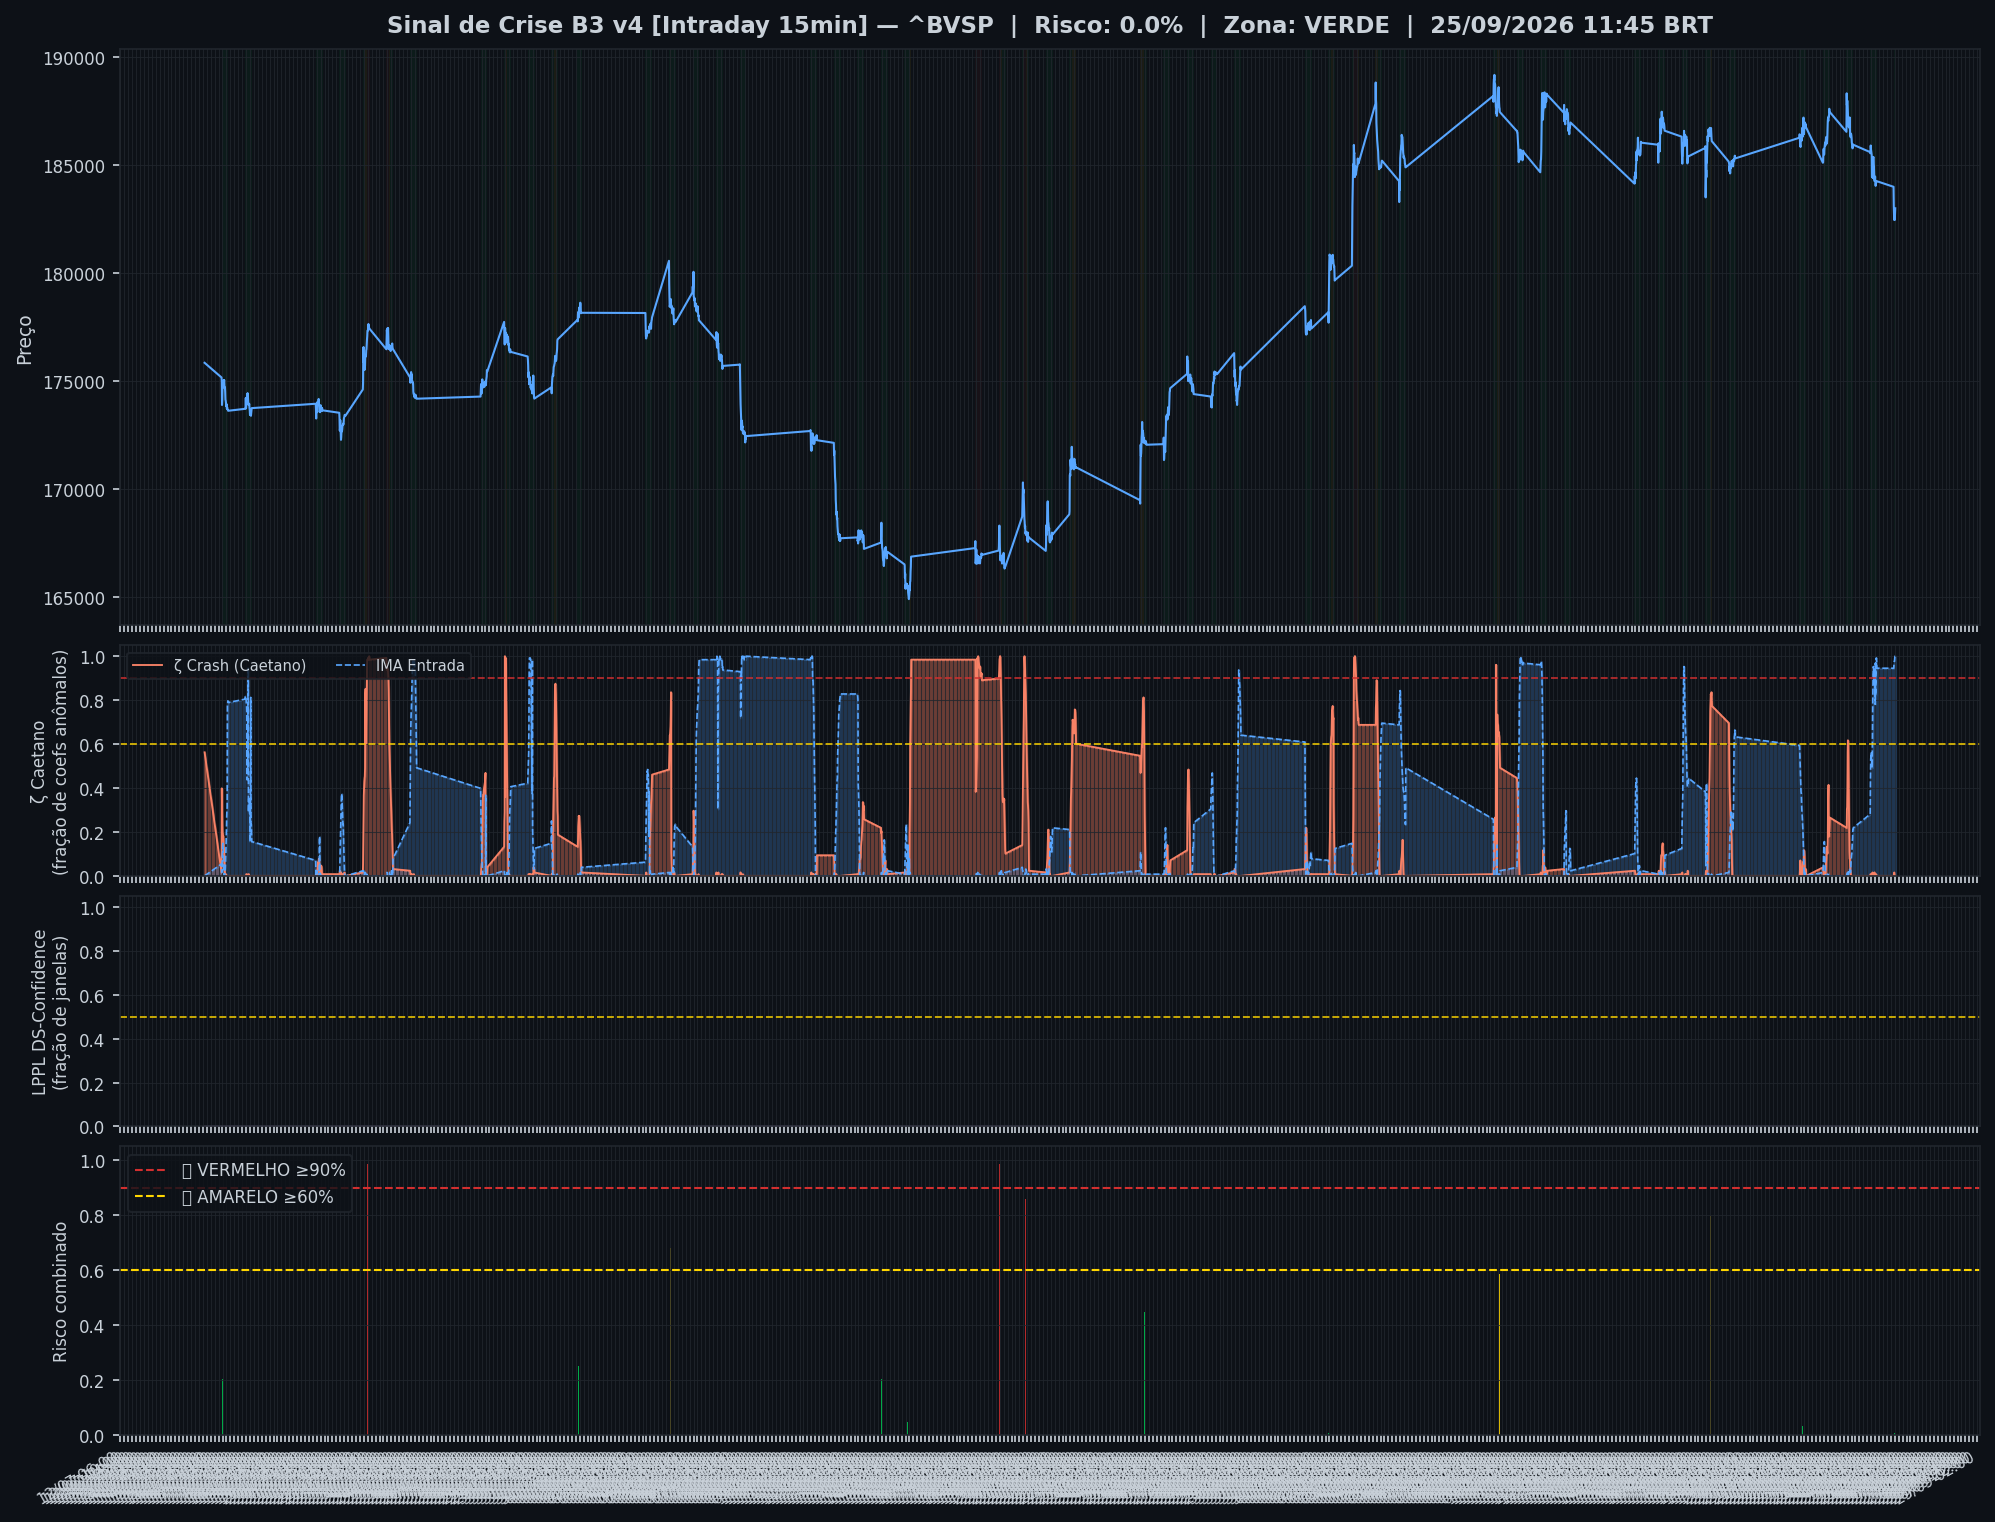
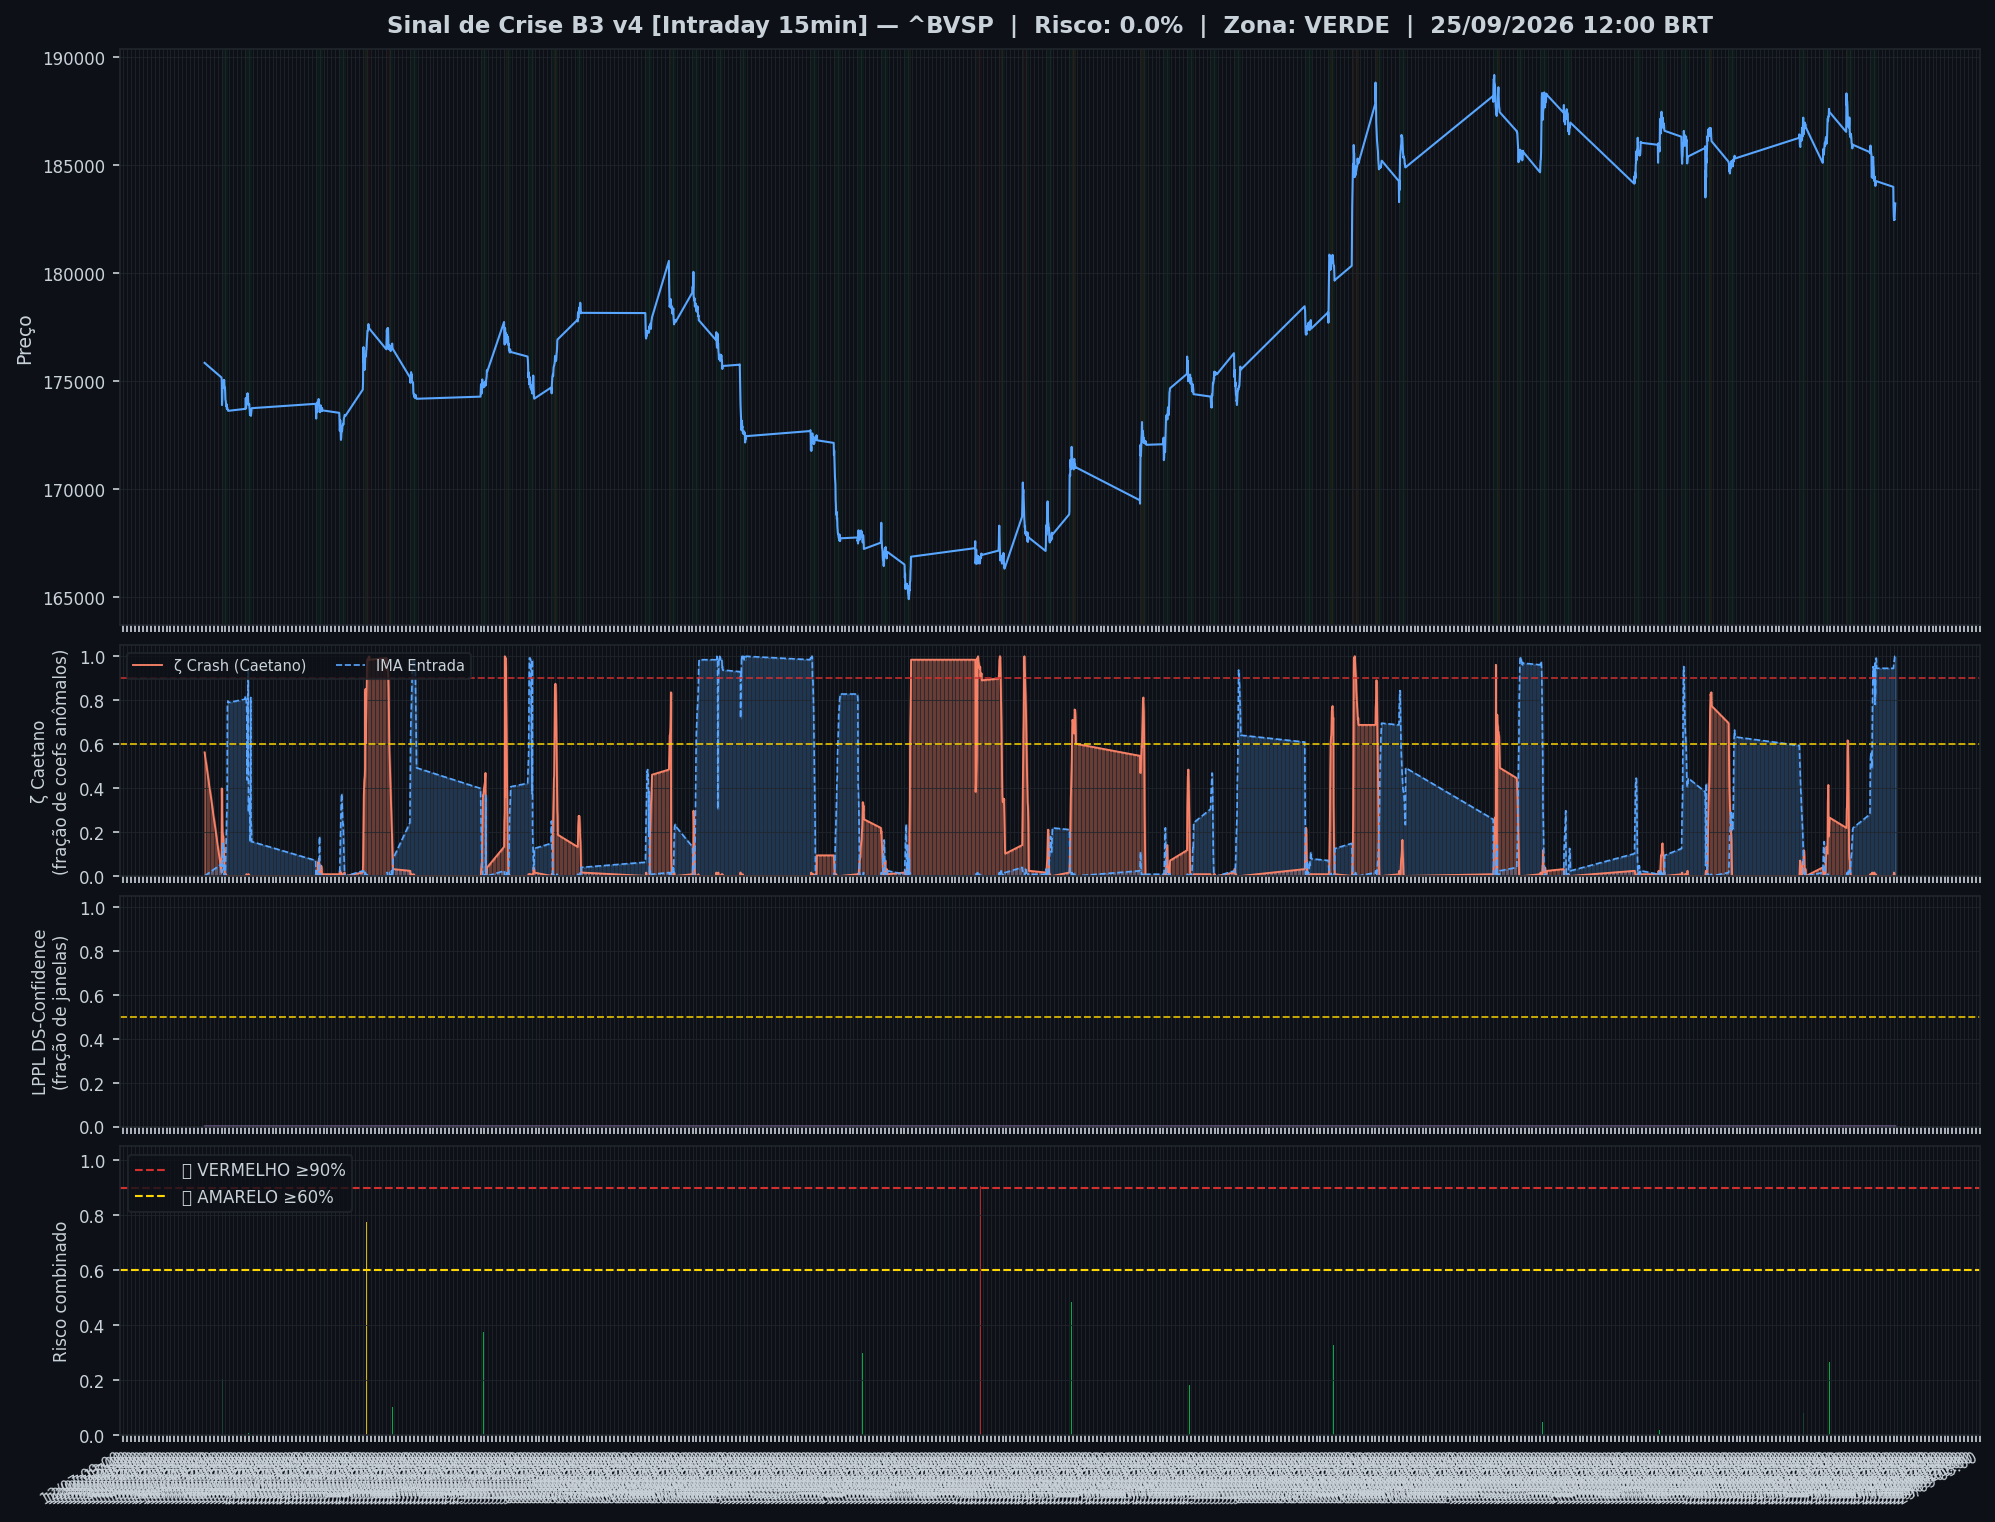
🤖 Auto: Sinal 25/09/2026 12:46

Changed region(s): [[0.0932, 0.4323, 0.9634, 0.5867], [0.0, 0.9264, 0.9945, 0.9882]]

diff --git a/content/intraday/2026-09-25.md b/content/intraday/2026-09-25.md
@@ -1,5 +1,5 @@
 ---
-title: "🟢 Intraday 25/09/2026 11:45 BRT — VERDE"
+title: "🟢 Intraday 25/09/2026 12:00 BRT — VERDE"
 date: 2026-09-25
 tags: [intraday]
 ---
@@ -14,7 +14,7 @@ tags: [intraday]
 | 🔴 ζ Crash — severidade da queda em curso | **0%** |
 | 🔵 ζ Entrada — estrutura de fundo | 100% |
 | 🫧 LPPL DS-Confidence | 0% |
-| 📊 Ibovespa | 182.997 pts |
+| 📊 Ibovespa | 183.225 pts |
 
 ![Gráfico do sinal](../graficos/sinal_intraday.png)
 
@@ -22,6 +22,7 @@ tags: [intraday]
 
 | Data | Zona | Risco | IMA Crash | Entrada | LPPL |
 |---|---|---|---|---|---|
+| 2026-09-25 12:00 | 🟢 VERDE | **0%** | 0% | 100% | 0% |
 | 2026-09-25 11:45 | 🟢 VERDE | **0%** | 0% | 100% | 0% |
 | 2026-09-25 11:30 | 🟢 VERDE | **0%** | 0% | 100% | 0% |
 | 2026-09-25 11:15 | 🟢 VERDE | **0%** | 0% | 100% | 0% |
@@ -51,7 +52,6 @@ tags: [intraday]
 | 2026-09-24 12:15 | 🟢 VERDE | **2%** | 2% | 66% | 0% |
 | 2026-09-24 12:00 | 🟢 VERDE | **0%** | 0% | 49% | 0% |
 | 2026-09-24 11:45 | 🟢 VERDE | **1%** | 1% | 52% | 0% |
-| 2026-09-24 11:30 | 🟢 VERDE | **1%** | 1% | 53% | 0% |
 
 ## Monitor Multi-Ativo
 
@@ -59,35 +59,35 @@ tags: [intraday]
 
 | Zona | Ativo | Setor | IMA Crash | IMA Entrada |
 |---|---|---|---|---|
-| 🟢 | **VALE** | Mineração | 1.6% | 7.8% |
-| 🟢 | **ITAUUNIBANCO** | Financeiro | 1.6% | 2.3% |
-| 🟢 | **PETROBRAS** | Petróleo | 1.6% | 2.3% |
-| 🟢 | **PETROBRAS** | Petróleo | 1.6% | 2.3% |
-| 🟢 | **AXIA ENERGIA** | Energia | 1.6% | 7.8% |
-| 🟢 | **SABESP** | Saneamento | 1.6% | 7.8% |
-| 🟢 | **BRADESCO** | Financeiro | 1.6% | 7.8% |
-| 🟢 | **B3** | Financeiro | 1.6% | 7.8% |
-| 🟢 | **ITAUSA** | Financeiro | 1.6% | 7.8% |
-| 🟢 | **BTGP BANCO** | Financeiro | 1.6% | 7.8% |
-| 🟢 | **WEG** | Industrial | 1.6% | 7.8% |
-| 🟢 | **EMBRAER** | Outros | 1.6% | 7.8% |
-| 🟢 | **AMBEV S/A** | Consumo | 1.6% | 7.8% |
-| 🟢 | **BRASIL** | Financeiro | 1.6% | 7.8% |
-| 🟢 | **ENEVA** | Energia | 1.6% | 7.8% |
-| 🟢 | **EQUATORIAL** | Energia | 1.6% | 7.8% |
-| 🟢 | **VIBRA** | Energia | 1.6% | 7.8% |
-| 🟢 | **COPEL** | Energia | 1.6% | 7.8% |
-| 🟢 | **PRIO** | Petróleo | 1.6% | 7.8% |
-| 🟢 | **ULTRAPAR** | Outros | 1.6% | 7.8% |
-| 🟢 | **REDE D OR** | Saúde | 1.6% | 7.8% |
-| 🟢 | **LOCALIZA** | Aluguel | 1.6% | 7.8% |
-| 🟢 | **GERDAU** | Siderurgia | 1.6% | 7.8% |
-| 🟢 | **SUZANO S.A.** | Papel/Celulose | 1.6% | 7.8% |
-| 🟢 | **USD/BRL** | Câmbio | 0.8% | 3.1% |
+| 🟢 | **VALE** | Mineração | 0.8% | 3.1% |
+| 🟢 | **ITAUUNIBANCO** | Financeiro | 0.8% | 3.1% |
+| 🟢 | **PETROBRAS** | Petróleo | 0.8% | 3.1% |
+| 🟢 | **PETROBRAS** | Petróleo | 0.8% | 3.1% |
+| 🟢 | **AXIA ENERGIA** | Energia | 0.8% | 3.1% |
+| 🟢 | **SABESP** | Saneamento | 0.8% | 3.1% |
+| 🟢 | **BRADESCO** | Financeiro | 0.8% | 3.1% |
+| 🟢 | **B3** | Financeiro | 0.8% | 3.1% |
+| 🟢 | **ITAUSA** | Financeiro | 0.8% | 3.1% |
+| 🟢 | **BTGP BANCO** | Financeiro | 0.8% | 3.1% |
+| 🟢 | **WEG** | Industrial | 0.8% | 3.1% |
+| 🟢 | **EMBRAER** | Outros | 0.8% | 3.1% |
+| 🟢 | **AMBEV S/A** | Consumo | 0.8% | 3.1% |
+| 🟢 | **BRASIL** | Financeiro | 0.8% | 3.1% |
+| 🟢 | **ENEVA** | Energia | 0.8% | 3.1% |
+| 🟢 | **EQUATORIAL** | Energia | 0.8% | 3.1% |
+| 🟢 | **VIBRA** | Energia | 0.8% | 3.1% |
+| 🟢 | **COPEL** | Energia | 0.8% | 3.1% |
+| 🟢 | **PRIO** | Petróleo | 0.8% | 3.1% |
+| 🟢 | **ULTRAPAR** | Outros | 0.8% | 3.1% |
+| 🟢 | **REDE D OR** | Saúde | 0.8% | 3.1% |
+| 🟢 | **LOCALIZA** | Aluguel | 0.8% | 3.1% |
+| 🟢 | **GERDAU** | Siderurgia | 0.8% | 3.1% |
+| 🟢 | **SUZANO S.A.** | Papel/Celulose | 0.8% | 3.1% |
+| 🟢 | **USD/BRL** | Câmbio | 0.0% | 2.3% |
 
 ![Monitor multi-ativo](../graficos/multi_intraday.png)
 
-*Página atualizada em 25/09/2026 12:31 BRT (leitura da barra de 2026-09-25 11:45 BRT).*
+*Página atualizada em 25/09/2026 12:46 BRT (leitura da barra de 2026-09-25 12:00 BRT).*
 
 > [!info]- Como interpretar (clique para expandir)
 > - **ζ Crash**: fração dos coeficientes wavelet acima do corte (Caetano & Yoneyama 2009). Escala absoluta: ζ=0,90 = 90% dos coeficientes anômalos — historicamente, quedas com ζ≥0,90 foram mais fundas e mais longas. **Mede a severidade do movimento em curso, não prevê o início da queda.**

diff --git a/content/index.md b/content/index.md
@@ -8,7 +8,7 @@ tags: [home]
 
 Monitoramento diário e intraday do Ibovespa — **IMA Wavelet** (Prof. Marco Antonio Leonel Caetano, ITA/INSPER) + **LPPL DS-Confidence** (Prof. Didier Sornette, ETH-Zurich).
 
-*Última atualização: 25/09/2026 12:31 BRT · ^BVSP · Intraday 15min · v4*
+*Última atualização: 25/09/2026 12:46 BRT · ^BVSP · Intraday 15min · v4*
 
 > [!success] 🟢 **VERDE** — Risco 0% · ＝ +0 p.p. vs leitura anterior
 > `░░░░░░░░░░░░░░░░░░░░`
@@ -20,7 +20,7 @@ Monitoramento diário e intraday do Ibovespa — **IMA Wavelet** (Prof. Marco An
 | 🔴 ζ Crash — severidade da queda em curso | **0%** |
 | 🔵 ζ Entrada — estrutura de fundo | 100% |
 | 🫧 LPPL DS-Confidence | 0% |
-| 📊 Ibovespa | 182.997 pts |
+| 📊 Ibovespa | 183.225 pts |
 
 **Multi-ativo:** 0% em tensão (0🔴 0🟡 de 25 ativos)
 

diff --git a/content/historico.md b/content/historico.md
@@ -7,6 +7,7 @@ tags: [historico]
 
 | Data | Modo | Zona | Risco | IMA | LPPL |
 |---|---|---|---|---|---|
+| 2026-09-25 12:00 | intraday | 🟢 VERDE | 0% | 0% | 0% |
 | 2026-09-25 11:45 | intraday | 🟢 VERDE | 0% | 0% | 0% |
 | 2026-09-25 11:30 | intraday | 🟢 VERDE | 0% | 0% | 0% |
 | 2026-09-25 11:15 | intraday | 🟢 VERDE | 0% | 0% | 0% |
